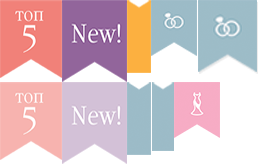
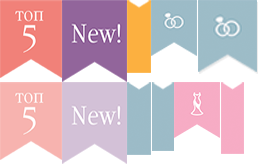
Set of fixes (part2)

Changed region(s): [[0.8372, 0.4878, 0.9612, 0.9451]]

diff --git a/birds-service.html b/birds-service.html
@@ -97,74 +97,145 @@
             <div class="container">
                 <strong class="title title-services-wide"><span>Услуги</span></strong>
                 <div class="content">
-                    <article class="page-content">
-                        <div class="contact-block">
-                            <div class="text-right">
-                                <span class="phone">8 (495) 956-56-73</span>
-                                <span class="time">Ежедневно с 10.00 до 21.00</span>
-                                <a class="callback-link lightbox-link" href="#callback">Обратный звонок</a>
+                    <div class="content-holder">
+                        <article class="page-content">
+                            <div class="contact-block">
+                                <div class="text-right">
+                                    <span class="phone">8 (495) 956-56-73</span>
+                                    <span class="time">Ежедневно с 10.00 до 21.00</span>
+                                    <a class="callback-link lightbox-link" href="#callback">Обратный звонок</a>
+                                </div>
+                                <a class="btn-order lightbox-link" href="#on-line">Заказать On-line</a>
+                                <div class="gift-box">
+                                    <a href="#"><img src="images/img69.jpg" alt="" width="251" height="186"/></a>
+                                    <a class="btn-gift" href="#">Получить подарок!</a>
+                                </div>
                             </div>
-                            <a class="btn-order lightbox-link" href="#on-line">Заказать On-line</a>
-                            <div class="gift-box">
-                                <a href="#"><img src="images/img69.jpg" alt="" width="251" height="186"/></a>
-                                <a class="btn-gift" href="#">Получить подарок!</a>
-                            </div>
-                        </div>
 
-                        <h1>Запуск голубей</h1>
-                        <div class="img">
-                            <img src="images/img70.jpg" alt="" width="568" height="338"/>
+                            <h1>Запуск голубей</h1>
+                            <div class="img">
+                                <img src="images/img70.jpg" alt="" width="568" height="338"/>
+                            </div>
+                            <div class="price-block">
+                                <strong class="caption">Цена</strong>
+                                <div class="entry">
+                                    <p>Самовывоз <span class="price">2100 руб.</span></p>
+                                    <p>Доставка по Москве <span class="price">2300 руб.</span></p>
+                                    <p><em>*Пара голубей в коробке/клетке</em></p>
+                                </div>
+                            </div>
+                            <p>Запуск белых голубей - это одна из трогательных свадебных традиций. Символ любви, супружеской верности, благополучия.</p>
+                            <p>В старину гадания на голубях проводились в день Святой Троицы.</p>
+                            <p>К лапке голубя привязывали ленты: синюю и красную. Прошепчите голубям свои желания и выпустите их в небо, какой голубь вылетит из рук молодоженов первым (за девочку- красная ленточка, за мальчика - голубая), тот и будет первенцем в семье. Второй вариант, чей голубь улетел
+                                первым или взлетел выше, тот и будет главным в семье.</p>
+                            <br/>
+                            <h2 class="title title-useful-tips-short"><span>Полезные советы</span></h2>
+                            <ul>
+                                <li>Держать птиц нужно на вытянутой руке, дабы избежать возможности испачкаться птичьим помётом.</li>
+                                <li>По той же причине голубей не кормят в этот день</li>
+                                <li>Держать голубков нужно бережно, чтобы не повредить хрупкие крылья и оперение.</li>
+                                <li>В летнюю жару не оставляйте коробку с птицами в машине, от теплового удара птицы могут погибнуть.</li>
+                                <li>Не выпускайте голубей сразу, фотографируйтесь с ними. Для получения удачной фотографии
+                                    (с запуском голубей на свадьбе) можно включить фотоаппарат в режим фоторяда, чтобы потом
+                                    выбрать наиболее красивое фото для печати.</li>
+                            </ul>
+                        </article>
+                        <aside class="aside">
+                            <ul class="add-nav">
+                                <li><a href="#">Приглашения</a></li>
+                                <li><a href="#">Девичник</a></li>
+                                <li><a href="#">Мальчишник</a></li>
+                                <li><a href="#">Свадебный образ</a></li>
+                                <li><a href="#">Выкуп</a></li>
+                                <li class="active">
+                                    <a href="#">ЗАГС</a>
+                                    <ul>
+                                        <li class="active"><a href="#">Запуск голубей</a></li>
+                                        <li><a href="#">Запуск Био голубей</a></li>
+                                        <li><a href="#">Дети-ангелочки</a></li>
+                                        <li><a href="#">Запуск бабочек</a></li>
+                                    </ul>
+                                </li>
+                                <li><a href="#">Выездная регистрация</a></li>
+                                <li><a href="#">Банкет и программа</a></li>
+                                <li><a href="#">Прогулка</a></li>
+                                <li><a href="#">Фотосъемка</a></li>
+                                <li><a href="#">Видеосъемка</a></li>
+                                <li><a href="#">Первая брачная ночь</a></li>
+                                <li><a href="#">Свадебное путешествие</a></li>
+                                <li><a href="#">Свадебный распорядитель</a></li>
+                            </ul>
+                        </aside>
+                    </div>
+                    <div class="comments-holder">
+                        <div class="comments">
+                            <img src="images/comments.png" alt="" width="1127" height="270"/>
                         </div>
-                        <div class="price-block">
-                            <strong class="caption">Цена</strong>
-                            <div class="entry">
-                                <p>Самовывоз <span class="price">2100 руб.</span></p>
-                                <p>Доставка по Москве <span class="price">2300 руб.</span></p>
-                                <p><em>*Пара голубей в коробке/клетке</em></p>
+                        <div class="share">
+                            <strong class="title title-share-short two-sides-dots"><span>Рассказать друзьям</span></strong>
+                            <div class="share-content">
+                                <ul>
+                                    <li><img src="images/img-vk-big.png" alt="" width="151" height="44"/></li>
+                                    <li><img src="images/img-fb-big.png" alt="" width="213" height="44"/></li>
+                                    <li><img src="images/img-tw-big.png" alt="" width="192" height="44"/></li>
+                                    <li><img src="images/img-odn-big.png" alt="" width="111" height="42"/></li>
+                                </ul>
                             </div>
                         </div>
-                        <p>Запуск белых голубей - это одна из трогательных свадебных традиций. Символ любви, супружеской верности, благополучия.</p>
-                        <p>В старину гадания на голубях проводились в день Святой Троицы.</p>
-                        <p>К лапке голубя привязывали ленты: синюю и красную. Прошепчите голубям свои желания и выпустите их в небо, какой голубь вылетит из рук молодоженов первым (за девочку- красная ленточка, за мальчика - голубая), тот и будет первенцем в семье. Второй вариант, чей голубь улетел
-                            первым или взлетел выше, тот и будет главным в семье.</p>
-                        <br/>
-                        <h2 class="title title-useful-tips-short"><span>Полезные советы</span></h2>
-                        <ul>
-                            <li>Держать птиц нужно на вытянутой руке, дабы избежать возможности испачкаться птичьим помётом.</li>
-                            <li>По той же причине голубей не кормят в этот день</li>
-                            <li>Держать голубков нужно бережно, чтобы не повредить хрупкие крылья и оперение.</li>
-                            <li>В летнюю жару не оставляйте коробку с птицами в машине, от теплового удара птицы могут погибнуть.</li>
-                            <li>Не выпускайте голубей сразу, фотографируйтесь с ними. Для получения удачной фотографии
-                                (с запуском голубей на свадьбе) можно включить фотоаппарат в режим фоторяда, чтобы потом
-                                выбрать наиболее красивое фото для печати.</li>
-                        </ul>
-                    </article>
-                    <aside class="aside">
-                        <ul class="add-nav">
-                            <li><a href="#">Приглашения</a></li>
-                            <li><a href="#">Девичник</a></li>
-                            <li><a href="#">Мальчишник</a></li>
-                            <li><a href="#">Свадебный образ</a></li>
-                            <li><a href="#">Выкуп</a></li>
-                            <li class="active">
-                                <a href="#">ЗАГС</a>
-                                <ul>
-                                    <li class="active"><a href="#">Запуск голубей</a></li>
-                                    <li><a href="#">Запуск Био голубей</a></li>
-                                    <li><a href="#">Дети-ангелочки</a></li>
-                                    <li><a href="#">Запуск бабочек</a></li>
-                                </ul>
-                            </li>
-                            <li><a href="#">Выездная регистрация</a></li>
-                            <li><a href="#">Банкет и программа</a></li>
-                            <li><a href="#">Прогулка</a></li>
-                            <li><a href="#">Фотосъемка</a></li>
-                            <li><a href="#">Видеосъемка</a></li>
-                            <li><a href="#">Первая брачная ночь</a></li>
-                            <li><a href="#">Свадебное путешествие</a></li>
-                            <li><a href="#">Свадебный распорядитель</a></li>
-                        </ul>
-                    </aside>
+                    </div>
+                </div>
+                <div class="see-also">
+                    <h3 class="title title-see-also-short two-sides-dots"><span>Услуги</span></h3>
+                    <ul>
+                        <li>
+                            <div class="photo-box photo-box-large">
+                                <a class="img-link" href="#">&nbsp;</a>
+                                <div class="photo">
+                                    <div class="cropper"><img src="images/img17.jpg" alt="" width="361" height="260"/></div>
+                                </div>
+                                <div class="caption">
+                                    <strong><a href="#">Запуск голубей</a></strong>
+                                    <span class="price">От 1 200 руб.</span>
+                                </div>
+                            </div>
+                        </li>
+                        <li>
+                            <div class="photo-box photo-box-large">
+                                <a class="img-link" href="#">&nbsp;</a>
+                                <div class="photo">
+                                    <div class="cropper"><img src="images/img18.jpg" alt="" width="366" height="274"/></div>
+                                </div>
+                                <div class="caption">
+                                    <strong><a href="#">Запуск биоголубей</a></strong>
+                                    <span class="price">От 1 500 руб.</span>
+                                </div>
+                            </div>
+                        </li>
+                        <li>
+                            <div class="photo-box photo-box-large">
+                                <a class="img-link" href="#">&nbsp;</a>
+                                <div class="photo">
+                                    <div class="cropper"><img src="images/img19.jpg" alt="" width="379" height="255"/></div>
+                                </div>
+                                <div class="caption">
+                                    <strong><a href="#">Запуск бабочек</a></strong>
+                                    <span class="price">От 2 200 руб.</span>
+                                </div>
+                            </div>
+                        </li>
+                        <li>
+                            <div class="photo-box photo-box-large">
+                                <a class="img-link" href="#">&nbsp;</a>
+                                <div class="photo">
+                                    <div class="cropper"><img src="images/img71.jpg" alt="" width="363" height="259"/></div>
+                                </div>
+                                <div class="caption">
+                                    <strong><a href="#">Дети-ангелочки</a></strong>
+                                    <span class="price">От 1 200 руб.</span>
+                                </div>
+                            </div>
+                        </li>
+                    </ul>
                 </div>
             </div>
         </main>

diff --git a/bride.html b/bride.html
@@ -345,7 +345,7 @@
                                     <div class="cropper"><img src="images/img7.jpg" alt="" width="366" height="260"/></div>
                                 </div>
                                 <div class="caption">
-                                    <span class="sticker dark-blue">&nbsp;</span>
+                                    <span class="sticker pink">&nbsp;</span>
                                     <strong><a href="#">Подушечка для колец</a></strong>
                                     <span class="price">1 000 руб.</span>
                                 </div>
@@ -358,7 +358,7 @@
                                     <div class="cropper"><img src="images/img6.jpg" alt="" width="364" height="282"/></div>
                                 </div>
                                 <div class="caption">
-                                    <span class="sticker dark-blue">&nbsp;</span>
+                                    <span class="sticker pink">&nbsp;</span>
                                     <strong><a href="#">Корочка для свидетельства о браке</a></strong>
                                     <span class="price">1 200 руб.</span>
                                 </div>
@@ -371,7 +371,7 @@
                                     <div class="cropper"><img src="images/img13.png" alt="" width="355" height="266"/></div>
                                 </div>
                                 <div class="caption">
-                                    <span class="sticker dark-blue">&nbsp;</span>
+                                    <span class="sticker pink">&nbsp;</span>
                                     <strong><a href="#">Бокалы для шампанского</a></strong>
                                     <span class="price">3 000 руб.</span>
                                 </div>
@@ -384,7 +384,7 @@
                                     <div class="cropper"><img src="images/img14.jpg" alt="" width="360" height="276"/></div>
                                 </div>
                                 <div class="caption">
-                                    <span class="sticker dark-blue">&nbsp;</span>
+                                    <span class="sticker pink">&nbsp;</span>
                                     <strong><a href="#">Ручка для росписи</a></strong>
                                     <span class="price">1 800 руб.</span>
                                 </div>
@@ -397,7 +397,7 @@
                                     <div class="cropper"><img src="images/img15.jpg" alt="" width="364" height="285"/></div>
                                 </div>
                                 <div class="caption">
-                                    <span class="sticker dark-blue">&nbsp;</span>
+                                    <span class="sticker pink">&nbsp;</span>
                                     <strong><a href="#">Лепестки роз, конфети, хлопушки</a></strong>
                                     <span class="price">200 руб.</span>
                                 </div>
@@ -410,7 +410,7 @@
                                     <div class="cropper"><img src="images/img16.jpg" alt="" width="376" height="257"/></div>
                                 </div>
                                 <div class="caption">
-                                    <span class="sticker dark-blue">&nbsp;</span>
+                                    <span class="sticker pink">&nbsp;</span>
                                     <strong><a href="#">Корзины/кулечки для лепестков</a></strong>
                                     <span class="price">3 000 руб.</span>
                                 </div>

diff --git a/css/style.css b/css/style.css
@@ -99,6 +99,7 @@ fieldset {
 .content-block:after,
 .content:after,
 .order-form .captcha-row:after,
+.content-holder:after,
 #footer .holder:after {
     display: block;
     content: '';
@@ -787,6 +788,15 @@ fieldset {
     background-position: 0 -594px;
 }
 
+.title.title-see-also-short {
+    width: 383px;
+    margin-bottom: 20px;
+}
+.title.title-see-also-short span {
+    width: 383px;
+    height: 38px;
+    background-position: -792px -447px;
+}
 .text-title {
     display: block;
     margin: 0;
@@ -1181,6 +1191,9 @@ fieldset {
 .photo-box .sticker.dark-blue {
     background-position: -127px -82px;
 }
+.photo-box .sticker.pink {
+    background-position: -221px -82px;
+}
 .photo-box .sticker.dark-blue-wide,
 .photo-box .sticker.pink-wide{
     width: 46px;
@@ -1254,19 +1267,22 @@ fieldset {
 }
 .shop .btn-left:hover {left: -37px;}
 .shop .btn-right:hover {right: -32px;}
-/* services, articles */
+/* services, articles, see-also */
 div.articles,
-div.services {
+div.services,
+div.see-also{
     margin: 0 0 25px;
 }
 div.articles ul,
-div.services ul {
+div.services ul,
+div.see-also ul{
     margin: 0;
     padding: 0;
     list-style: none;
 }
 div.articles ul > li,
-div.services ul > li {
+div.services ul > li,
+div.see-also ul > li{
     display: inline-block;
     margin: 0 13px 0 0;
 }
@@ -2264,6 +2280,9 @@ img.smile {
     background: url(../images/sprite.png) no-repeat -225px -66px;
     width: 6px;
     height: 6px;
+}
+.content .comments-holder {
+    padding: 0 32px 218px 0;
 }
 /* footer */
 #footer {
